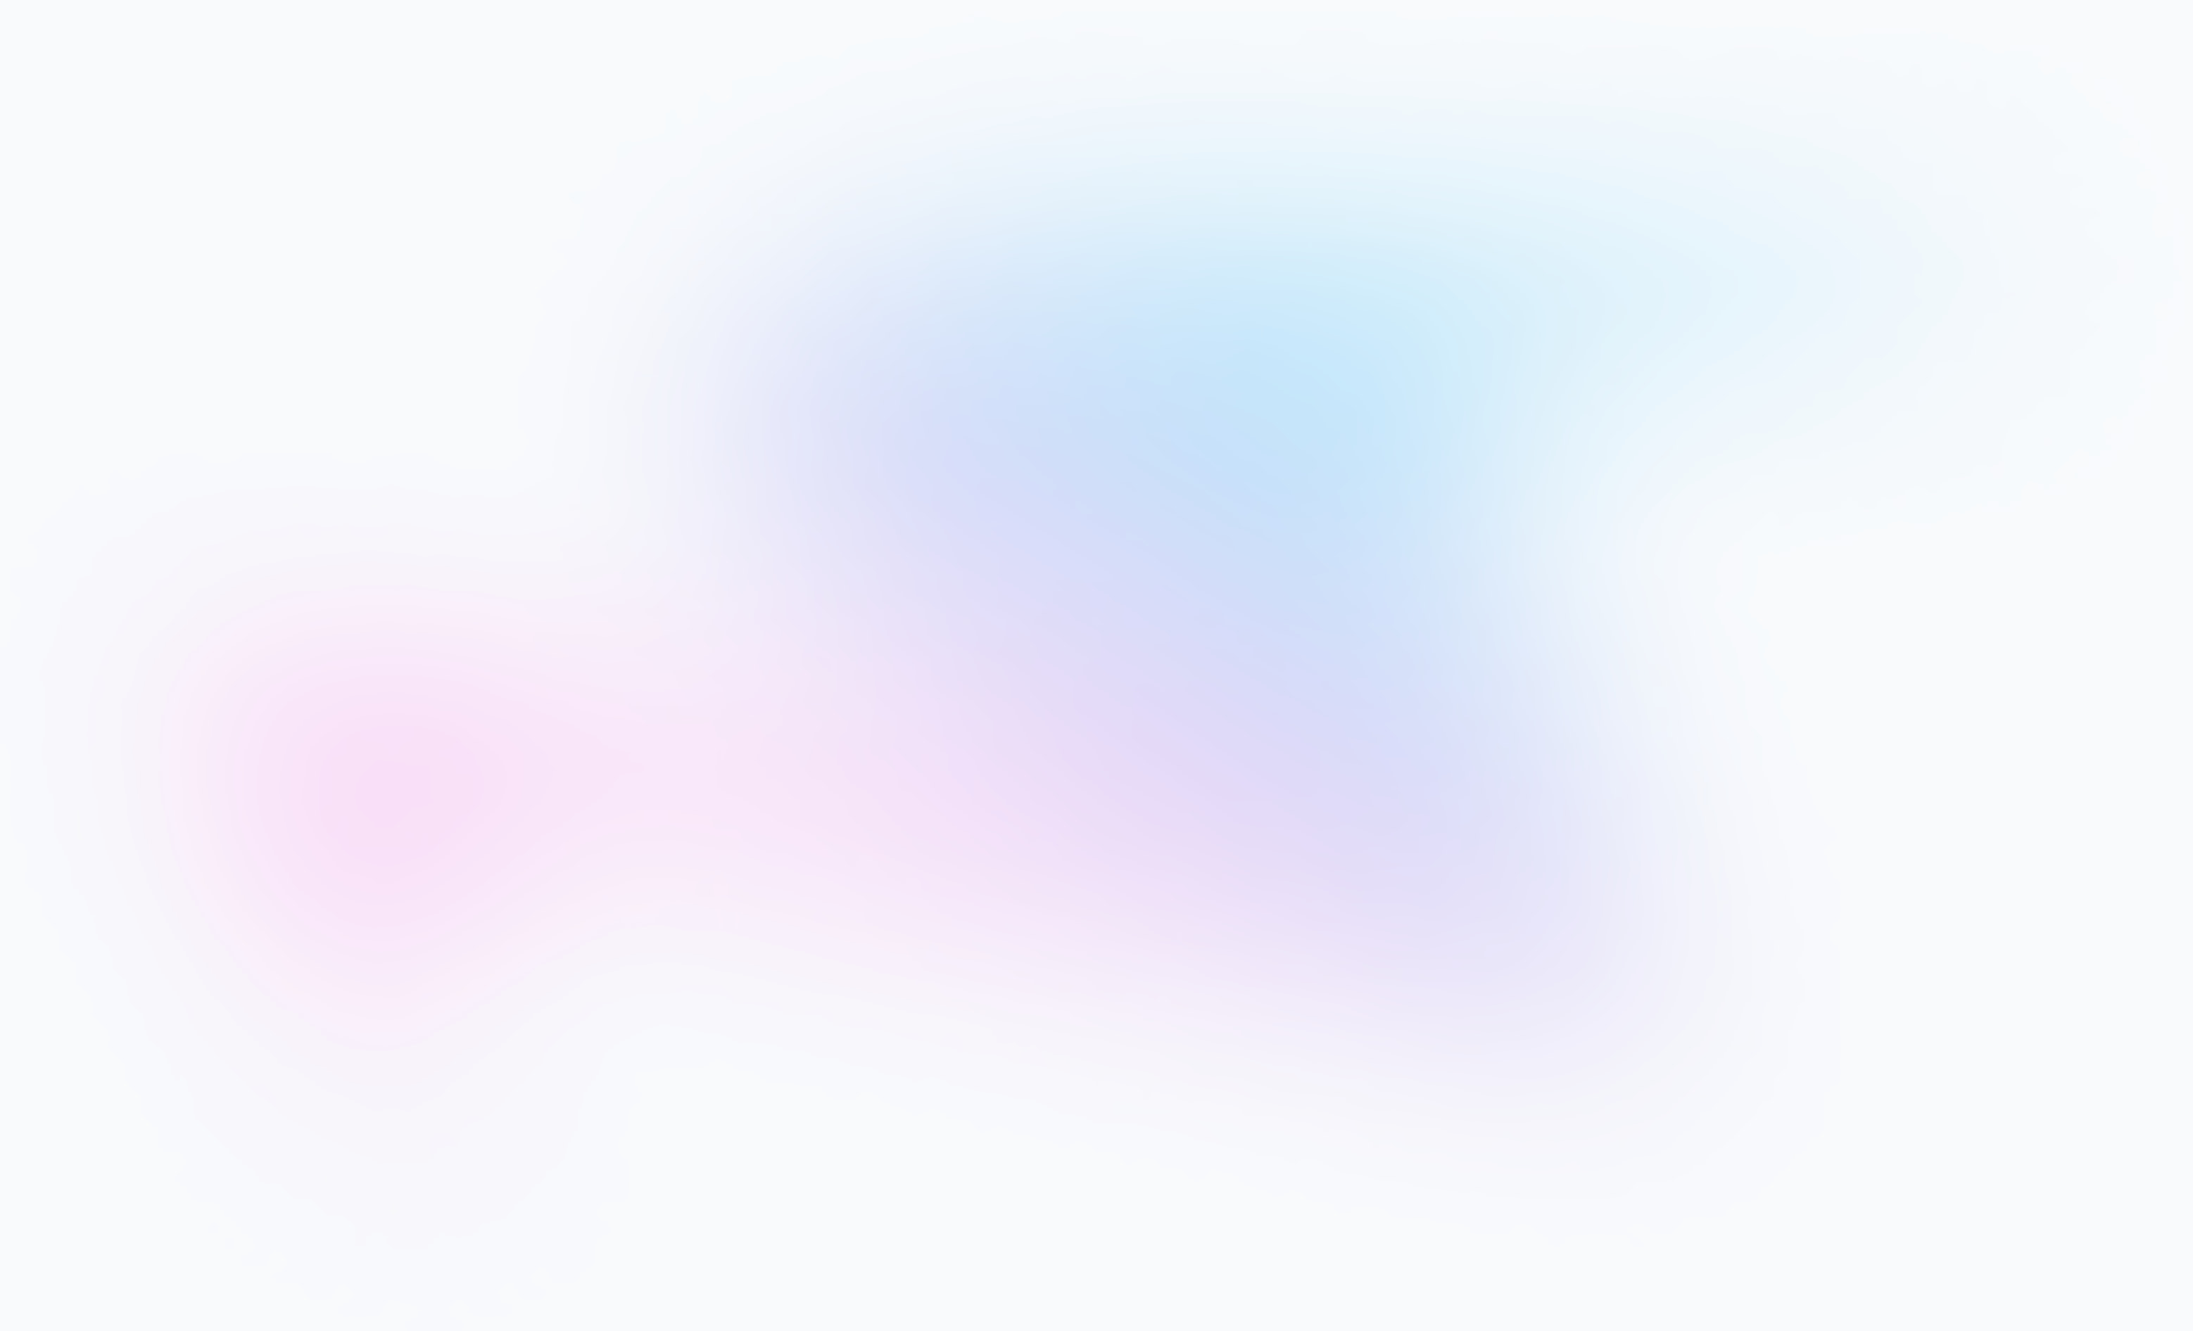
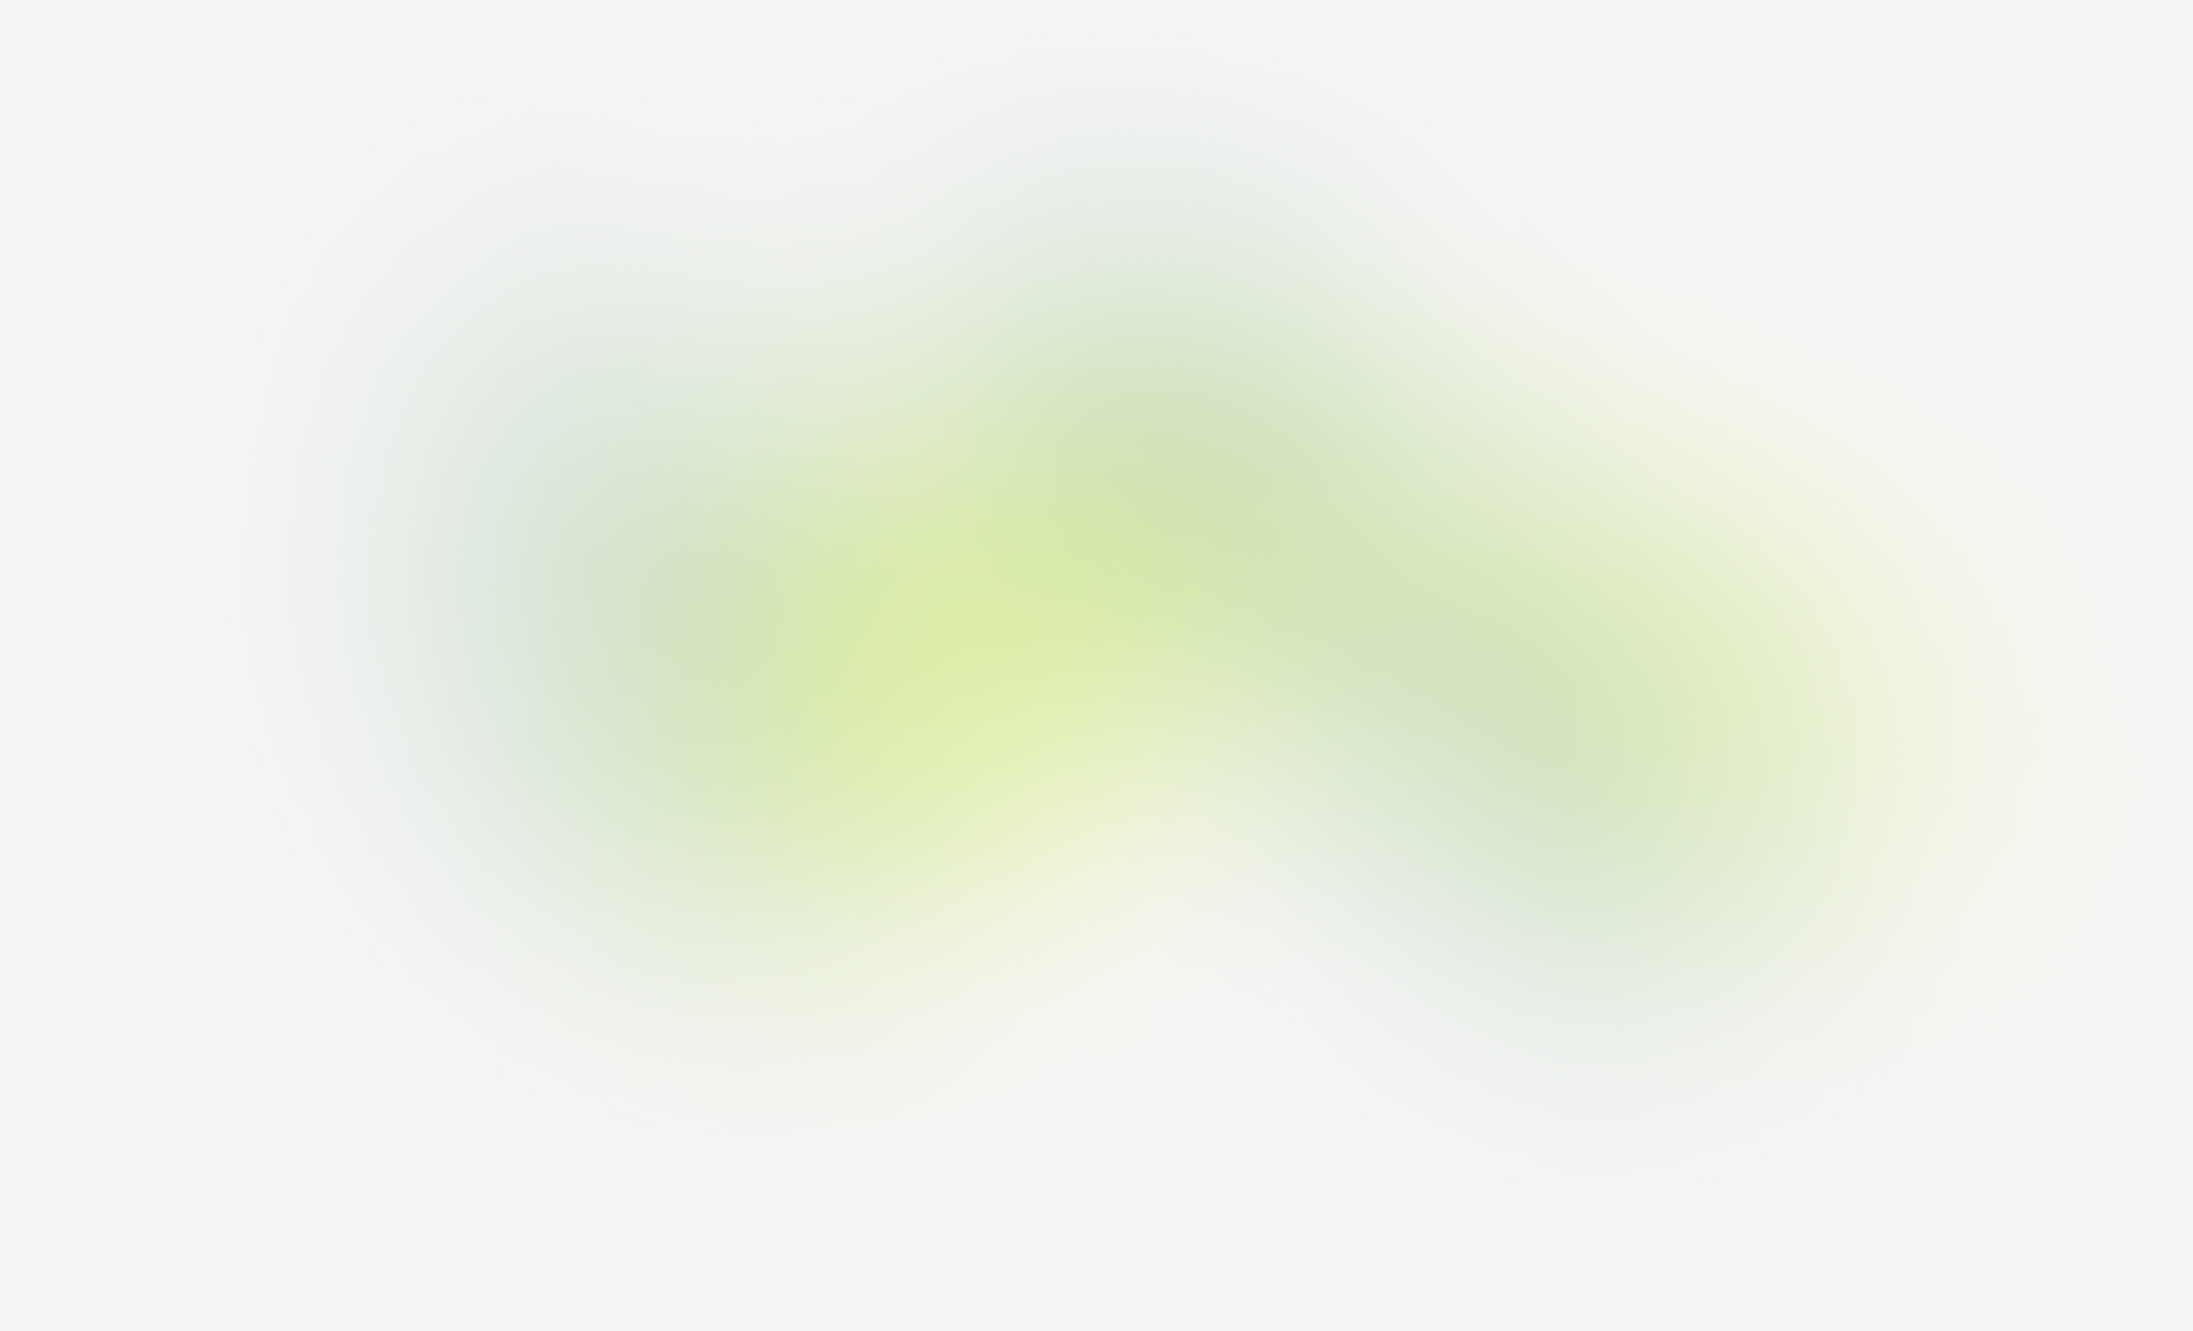
Marketing Page Texte und Farben angepasst.

Changed region(s): [[0.1868, 0.1559, 0.9028, 0.7484]]

diff --git a/marketing/src/components/SecondaryFeatures.jsx b/marketing/src/components/SecondaryFeatures.jsx
@@ -10,10 +10,10 @@ import screenshotProfitLoss from '@/images/screenshots/profit-loss.png'
 
 const features = [
   {
-    name: 'Reporting',
-    summary: 'Stay on top of things with always up-to-date reporting features.',
+    name: 'Connection',
+    summary: 'Gather everyone in one place and connect to others who want to join your mission.',
     description:
-      'We talked about reporting in the section above but we needed three items here, so mentioning it one more time for posterity.',
+      "All community members and involved professionals at one place rather than on several different and complicated web services.",
     image: screenshotProfitLoss,
     icon: function ReportingIcon() {
       let id = useId()
@@ -44,11 +44,11 @@ const features = [
     },
   },
   {
-    name: 'Inventory',
+    name: 'Structure',
     summary:
-      'Never lose track of what’s in stock with accurate inventory tracking.',
+      "Never lose the overview when organizing a community. \nCacaoDAO is plain, simple and secure.",
     description:
-      'We don’t offer this as part of our software but that statement is inarguably true. Accurate inventory tracking would help you for sure.',
+      'If you are tired of getting lost in chaotic structures of even your own organisation, CacaoDAO is your perfect fit.',
     image: screenshotInventory,
     icon: function InventoryIcon() {
       return (
@@ -72,11 +72,11 @@ const features = [
     },
   },
   {
-    name: 'Contacts',
+    name: 'Shared responsibility',
     summary:
-      'Organize all of your contacts, service providers, and invoices in one place.',
+      "Shared decision making means shared responsibilities and can even significantly reduce your workload.",
     description:
-      'This also isn’t actually a feature, it’s just some friendly advice. We definitely recommend that you do this, you’ll feel really organized and professional.',
+      "With CacaoDAO working towards public goods does not have to be coordinated by a single entity but rather by the sum of all people involved.",
     image: screenshotContacts,
     icon: function ContactsIcon() {
       return (
@@ -99,13 +99,13 @@ const features = [
 function Feature({ feature, isActive, className, ...props }) {
   return (
     <div
-      className={clsx(className, !isActive && 'opacity-75 hover:opacity-100')}
+      className={clsx(className+" whitespace-pre-wrap", !isActive && 'opacity-75 hover:opacity-100')}
       {...props}
     >
       <div
         className={clsx(
           'w-9 rounded-lg',
-          isActive ? 'bg-blue-600' : 'bg-slate-500'
+          isActive ? 'bg-[#508C56]' : 'bg-slate-500'
         )}
       >
         <svg aria-hidden="true" className="h-9 w-9" fill="none">
@@ -115,7 +115,7 @@ function Feature({ feature, isActive, className, ...props }) {
       <h3
         className={clsx(
           'mt-6 text-sm font-medium',
-          isActive ? 'text-blue-600' : 'text-slate-600'
+          isActive ? 'text-[#508C56]' : 'text-slate-600'
         )}
       >
         {feature.name}
@@ -216,11 +216,10 @@ export function SecondaryFeatures() {
       <Container>
         <div className="mx-auto max-w-2xl md:text-center">
           <h2 className="font-display text-3xl tracking-tight text-slate-900 sm:text-4xl">
-            Simplify everyday business tasks.
+            Relieve the disruptive parts about consens finding. 
           </h2>
           <p className="mt-4 text-lg tracking-tight text-slate-700">
-            Because you’d probably be a little confused if we suggested you
-            complicate your everyday business tasks instead.
+            We know how stressful even the simplest decisions can be. <br/> Our goal is to make your life easier, not more complicated than it already is.
           </p>
         </div>
         <FeaturesMobile />

diff --git a/marketing/src/components/PrimaryFeatures.jsx b/marketing/src/components/PrimaryFeatures.jsx
@@ -12,27 +12,27 @@ import screenshotVatReturns from '@/images/screenshots/vat-returns.png'
 
 const features = [
   {
-    title: 'Payroll',
+    title: 'Trustless voting',
     description:
-      "Keep track of everyone's salaries and whether or not they've been paid. Direct deposit not supported.",
+      "No one, can modify votes once casted. CacaoDAO is build on a trustless and decentralized infrastructure that is less prone to corruption. \n Trust can be earned but can also be natural through technology.",
     image: screenshotPayroll,
   },
   {
-    title: 'Claim expenses',
+    title: 'Coordination of resources',
     description:
-      "All of your receipts organized into one place, as long as you don't mind typing in the data by hand.",
+      "There is no longer a need to switch between different platforms. Coordinate all resources relevent to your project synergistically on CacaoDAO.",
     image: screenshotExpenses,
   },
   {
-    title: 'VAT handling',
+    title: 'Co-Ownership',
     description:
-      "We only sell our software to companies who don't deal with VAT at all, so technically we do all the VAT stuff they need.",
+      "We aim for inclusive and sustainable economic growth through co-ownership. Everyone who engages with aproject is a stakeholder and has same rights.",
     image: screenshotVatReturns,
   },
   {
-    title: 'Reporting',
+    title: 'Security',
     description:
-      'Easily export your data into an Excel spreadsheet where you can do whatever the hell you want with it.',
+      "CacaoDAO is build on a solid public blockchain infrastructure and requires a multi-layer KYC which makes trustless anonymity possible. Even if you don't know any of the individuals involved you still don't have to fear any type of corruption or sybill attacks.",
     image: screenshotReporting,
   },
 ]
@@ -59,7 +59,7 @@ export function PrimaryFeatures() {
     <section
       id="features"
       aria-label="Features for running your books"
-      className="relative overflow-hidden bg-blue-600 pt-20 pb-28 sm:py-32"
+      className="relative overflow-hidden bg-[#508C56] pt-20 pb-28 sm:py-32"
     >
       <Image
         className="absolute top-1/2 left-1/2 max-w-none translate-x-[-44%] translate-y-[-42%]"
@@ -72,11 +72,13 @@ export function PrimaryFeatures() {
       <Container className="relative">
         <div className="max-w-2xl md:mx-auto md:text-center xl:max-w-none">
           <h2 className="font-display text-3xl tracking-tight text-white sm:text-4xl md:text-5xl">
-            Everything you need to run your books.
+            {/*Everything you need to run your books.*/}
+            A commonly satisfying consensus can be found.
           </h2>
           <p className="mt-6 text-lg tracking-tight text-blue-100">
-            Well everything you need if you aren’t that picky about minor
-            details like tax compliance.
+            {/*Well everything you need if you aren’t that picky about minor
+            details like tax compliance.*/}
+            Everything you need to realize the projects you love and others love too.
           </p>
         </div>
         <Tab.Group

diff --git a/marketing/src/components/Hero.jsx b/marketing/src/components/Hero.jsx
@@ -13,27 +13,27 @@ export function Hero() {
   return (
     <Container className="pt-20 pb-16 text-center lg:pt-32">
       <h1 className="mx-auto max-w-4xl font-display text-5xl font-medium tracking-tight text-slate-900 sm:text-7xl">
-        Accounting{' '}
-        <span className="relative whitespace-nowrap text-blue-600">
+        Consens finding{' '}
+        <span className="relative whitespace-nowrap text-[#508C56]">
           <svg
             aria-hidden="true"
             viewBox="0 0 418 42"
-            className="absolute top-2/3 left-0 h-[0.58em] w-full fill-blue-300/70"
+            className="absolute top-2/3 left-0 h-[0.58em] w-full fill-[#BCF3B3]"
             preserveAspectRatio="none"
           >
             <path d="M203.371.916c-26.013-2.078-76.686 1.963-124.73 9.946L67.3 12.749C35.421 18.062 18.2 21.766 6.004 25.934 1.244 27.561.828 27.778.874 28.61c.07 1.214.828 1.121 9.595-1.176 9.072-2.377 17.15-3.92 39.246-7.496C123.565 7.986 157.869 4.492 195.942 5.046c7.461.108 19.25 1.696 19.17 2.582-.107 1.183-7.874 4.31-25.75 10.366-21.992 7.45-35.43 12.534-36.701 13.884-2.173 2.308-.202 4.407 4.442 4.734 2.654.187 3.263.157 15.593-.78 35.401-2.686 57.944-3.488 88.365-3.143 46.327.526 75.721 2.23 130.788 7.584 19.787 1.924 20.814 1.98 24.557 1.332l.066-.011c1.201-.203 1.53-1.825.399-2.335-2.911-1.31-4.893-1.604-22.048-3.261-57.509-5.556-87.871-7.36-132.059-7.842-23.239-.254-33.617-.116-50.627.674-11.629.54-42.371 2.494-46.696 2.967-2.359.259 8.133-3.625 26.504-9.81 23.239-7.825 27.934-10.149 28.304-14.005.417-4.348-3.529-6-16.878-7.066Z" />
           </svg>
-          <span className="relative">made simple</span>
+          <span className="relative">made trustless and easy</span>
         </span>{' '}
-        for small businesses.
+        {/*for small shops.*/}
       </h1>
       <p className="mx-auto mt-6 max-w-2xl text-lg tracking-tight text-slate-700">
-        Most bookkeeping software is accurate, but hard to use. We make the
-        opposite trade-off, and hope you don’t get audited.
+        We offer the most relaxed way to reduce the complexity of consens finding. 
+        Build trust, network, and awareness for the goals and values you represent.
       </p>
       <div className="mt-10 flex justify-center gap-x-6">
-        <Button href="/register">Get 6 months free</Button>
-        <Button
+        <Button href="/register">Try for Free</Button>
+        {/*<Button
           href="https://www.youtube.com/watch?v=dQw4w9WgXcQ"
           variant="outline"
         >
@@ -45,7 +45,9 @@ export function Hero() {
           </svg>
           <span className="ml-3">Watch video</span>
         </Button>
+        */}
       </div>
+      {/*
       <div className="mt-36 lg:mt-44">
         <p className="font-display text-base text-slate-900">
           Trusted by these six companies so far
@@ -81,6 +83,7 @@ export function Hero() {
           ))}
         </ul>
       </div>
+      */}
     </Container>
   )
 }

diff --git a/marketing/src/components/Button.jsx b/marketing/src/components/Button.jsx
@@ -3,16 +3,16 @@ import clsx from 'clsx'
 
 const baseStyles = {
   solid:
-    'group inline-flex items-center justify-center rounded-full py-2 px-4 text-sm font-semibold focus:outline-none focus-visible:outline-2 focus-visible:outline-offset-2',
+    'group inline-flex items-center justify-center rounded-full py-4 px-8 text-sm font-semibold font-size:"100px" focus:outline-none focus-visible:outline-2 focus-visible:outline-offset-2',
   outline:
-    'group inline-flex ring-1 items-center justify-center rounded-full py-2 px-4 text-sm focus:outline-none',
+    'group inline-flex <ring-2>1</ring-2> items-center justify-center rounded-full py-4 px-8 text-sm focus:outline-none',
 }
 
 const variantStyles = {
   solid: {
     slate:
       'bg-slate-900 text-white hover:bg-slate-700 hover:text-slate-100 active:bg-slate-800 active:text-slate-300 focus-visible:outline-slate-900',
-    blue: 'bg-blue-600 text-white hover:text-slate-100 hover:bg-blue-500 active:bg-blue-800 active:text-blue-100 focus-visible:outline-blue-600',
+    blue: 'bg-[#508C56] text-white hover:text-slate-100 hover:bg-[#7DB282] active:bg-blue-800 active:text-blue-100 focus-visible:outline-blue-600',
     white:
       'bg-white text-slate-900 hover:bg-blue-50 active:bg-blue-200 active:text-slate-600 focus-visible:outline-white',
   },

diff --git a/marketing/src/components/Footer.jsx b/marketing/src/components/Footer.jsx
@@ -22,8 +22,9 @@ export function Footer() {
           <div className="flex gap-x-6">
             <Link
               href="https://twitter.com"
+              target="_blank"
               className="group"
-              aria-label="TaxPal on Twitter"
+              aria-label="CacaoDAO on Twitter"
             >
               <svg
                 aria-hidden="true"
@@ -33,9 +34,10 @@ export function Footer() {
               </svg>
             </Link>
             <Link
-              href="https://github.com"
+              href="https://github.com/Jasaka/Cacao-DAO"
+              target="_blank"
               className="group"
-              aria-label="TaxPal on GitHub"
+              aria-label="CacaoDAO on GitHub"
             >
               <svg
                 aria-hidden="true"
@@ -46,7 +48,7 @@ export function Footer() {
             </Link>
           </div>
           <p className="mt-6 text-sm text-slate-500 sm:mt-0">
-            Copyright &copy; {new Date().getFullYear()} TaxPal. All rights
+            Copyright &copy; {new Date().getFullYear()} CacaoDAO. All rights
             reserved.
           </p>
         </div>

diff --git a/marketing/src/components/Pricing.jsx b/marketing/src/components/Pricing.jsx
@@ -51,7 +51,7 @@ function Plan({ name, price, description, href, features, featured = false }) {
     <section
       className={clsx(
         'flex flex-col rounded-3xl px-6 sm:px-8',
-        featured ? 'order-first bg-blue-600 py-8 lg:order-none' : 'lg:py-8'
+        featured ? 'order-first bg-[#5EC34D] py-8 lg:order-none' : 'lg:py-8'
       )}
     >
       <h3 className="mt-5 font-display text-lg text-white">{name}</h3>
@@ -98,13 +98,13 @@ export function Pricing() {
     <section
       id="pricing"
       aria-label="Pricing"
-      className="bg-slate-900 py-20 sm:py-32"
+      className="bg-[#2A5922] py-20 sm:py-32"
     >
       <Container>
         <div className="md:text-center">
           <h2 className="font-display text-3xl tracking-tight text-white sm:text-4xl">
             <span className="relative whitespace-nowrap">
-              <SwirlyDoodle className="absolute top-1/2 left-0 h-[1em] w-full fill-blue-400" />
+              <SwirlyDoodle className="absolute top-1/2 left-0 h-[1em] w-full fill-[#BCF3B3]" />
               <span className="relative">Simple pricing,</span>
             </span>{' '}
             for everyone.

diff --git a/marketing/src/components/CallToAction.jsx b/marketing/src/components/CallToAction.jsx
@@ -8,7 +8,7 @@ export function CallToAction() {
   return (
     <section
       id="get-started-today"
-      className="relative overflow-hidden bg-blue-600 py-32"
+      className="relative overflow-hidden bg-[#508C56] py-32"
     >
       <Image
         className="absolute top-1/2 left-1/2 max-w-none -translate-x-1/2 -translate-y-1/2"
@@ -24,11 +24,10 @@ export function CallToAction() {
             Get started today
           </h2>
           <p className="mt-4 text-lg tracking-tight text-white">
-            It’s time to take control of your books. Buy our software so you can
-            feel like you’re doing something productive.
+            It’s time to realize what matters and to build a sustainable community or convert your existing one.
           </p>
           <Button href="/register" color="white" className="mt-10">
-            Get 6 months free
+            Test it for free
           </Button>
         </div>
       </Container>

diff --git a/marketing/src/components/Header.jsx b/marketing/src/components/Header.jsx
@@ -81,7 +81,7 @@ function MobileNavigation() {
             <MobileNavLink href="#testimonials">Testimonials</MobileNavLink>
             <MobileNavLink href="#pricing">Pricing</MobileNavLink>
             <hr className="m-2 border-slate-300/40" />
-            <MobileNavLink href="/login">Sign in</MobileNavLink>
+            {/*<MobileNavLink href="/login">Sign in</MobileNavLink>*/}
           </Popover.Panel>
         </Transition.Child>
       </Transition.Root>
@@ -105,9 +105,11 @@ export function Header() {
             </div>
           </div>
           <div className="flex items-center gap-x-5 md:gap-x-8">
+            {/*
             <div className="hidden md:block">
               <NavLink href="/login">Sign in</NavLink>
             </div>
+            */}
             <Button href="/register" color="blue">
               <span>
                 Get started <span className="hidden lg:inline">today</span>

diff --git a/marketing/src/components/Faqs.jsx b/marketing/src/components/Faqs.jsx
@@ -63,7 +63,7 @@ export function Faqs() {
     <section
       id="faq"
       aria-labelledby="faq-title"
-      className="relative overflow-hidden bg-slate-50 py-20 sm:py-32"
+      className="relative overflow-hidden bg-[#F5F5F5] py-20 sm:py-32"
     >
       <Image
         className="absolute top-0 left-1/2 max-w-none translate-x-[-30%] -translate-y-1/4"
